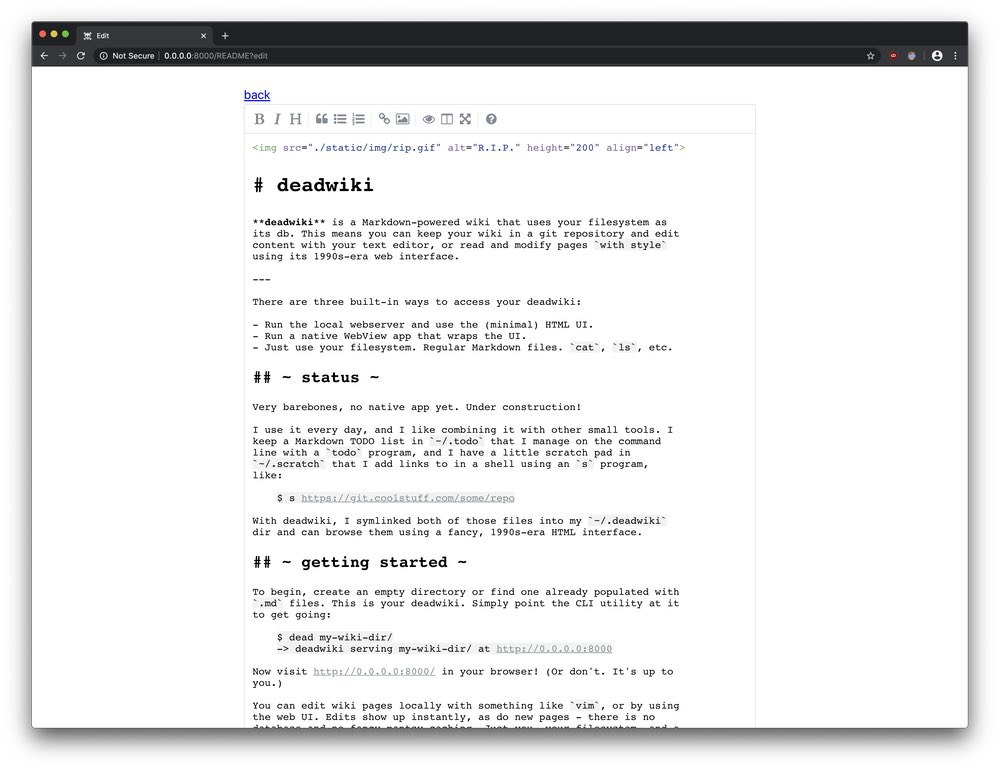
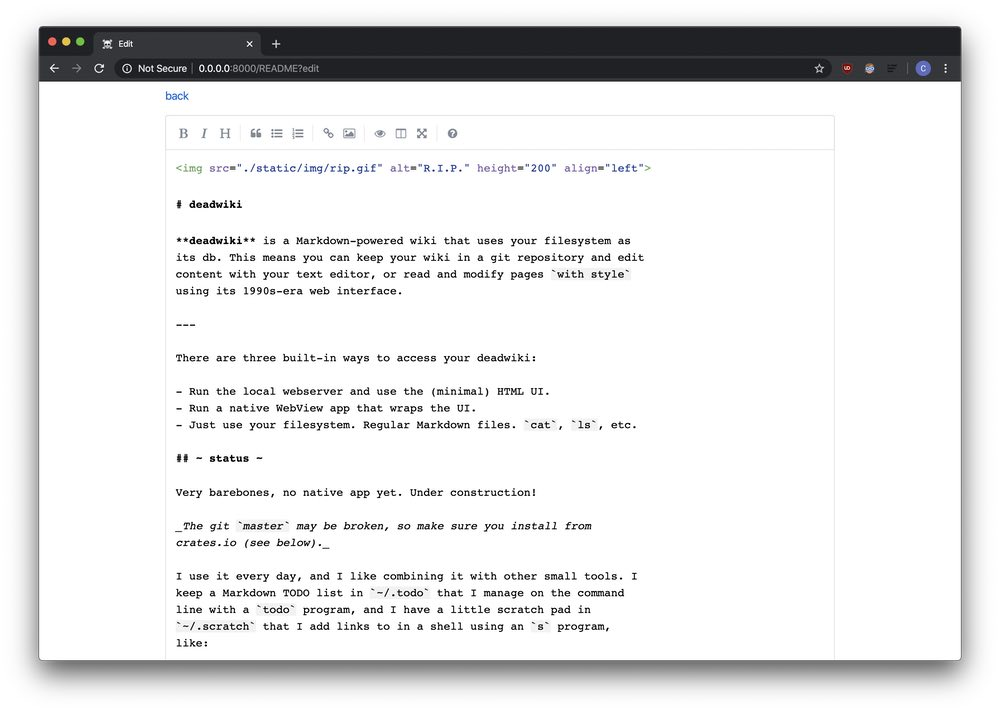
update screenies

Changed region(s): [[0.0, 0.0, 0.992, 0.9888], [0.62, 0.4326, 0.682, 0.4635]]

diff --git a/static/css/style.css b/static/css/style.css
@@ -9,6 +9,10 @@
 
 /* content  */
 
+.markdown-body h1:first-of-type {
+  margin-top: 1em;
+}
+
 .markdown-body h2 {
   border-bottom: none;
 }

diff --git a/README.md b/README.md
@@ -76,8 +76,8 @@ shortcuts in editor mode:
 | -------------- | -------------------------------- |
 | `Double Click` | Enters edit mode for a wiki page |
 | `ESC`          | Exits edit mode                  |
-| `Ctrl+Enter`   | Submits your edits               |
-| `Cmd+Enter`    | Same                             |
+| `Ctrl Enter`   | Submits your edits               |
+| `Cmd Enter`    | Same                             |
 | `Cmd-'`        | Toggle Blockquote                |
 | `Cmd-B`        | Toggle Bold                      |
 | `Cmd-E`        | Clean Block                      |
